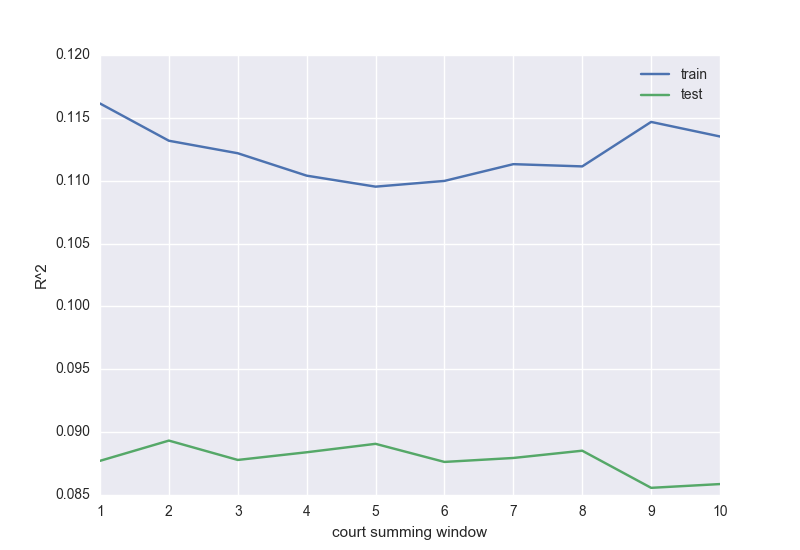
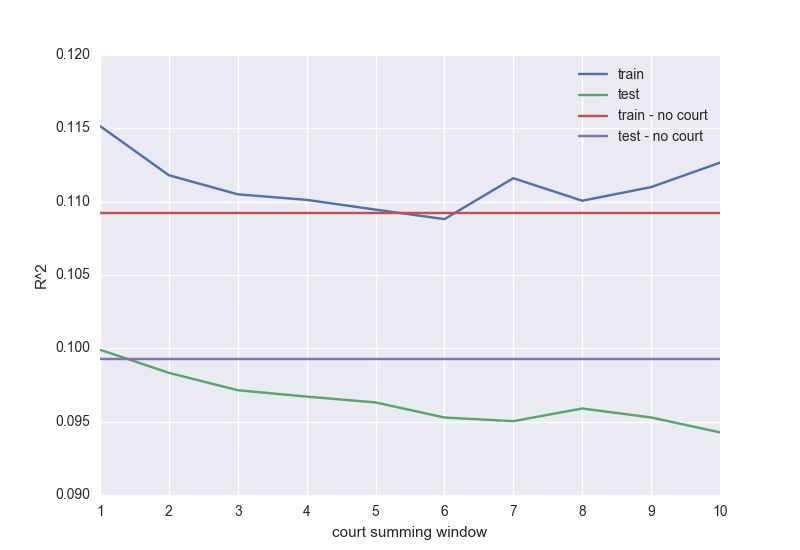
add lines to summing window plots for no court
shows how un-useful the court data is as we are currently modeling it
:/

diff --git a/compare_summing_windows.py b/compare_summing_windows.py
@@ -15,6 +15,8 @@ gss = processing.preprocess_gss()
 # gss = processing.preprocess_gss(composite=None, extra_imports=['affrmact'])
 
 
+train_nocourt_R2 = 0.0
+test_nocourt_R2 = 0.0
 train_R2 = np.array([0.0] * 10)
 test_R2 = np.array([0.0] * 10)
 windows = range(1, 11)
@@ -29,13 +31,21 @@ for l in range(n_reps):
         model = modeling.fit_model(train, test, y_col, x_cols, x_cols_nocourt, print_fit=False)
         train_R2[i-1] = train_R2[i-1] + model[0].score(train[:, x_cols], train[:, y_col])
         test_R2[i-1] = test_R2[i-1] + model[0].score(test[:, x_cols], test[:, y_col])
+        if i == 1:
+            train_nocourt_R2 = train_nocourt_R2 + model[1].score(train[:, x_cols_nocourt], train[:, y_col])
+            test_nocourt_R2 = test_nocourt_R2 + model[1].score(test[:, x_cols_nocourt], test[:, y_col])
 
 train_R2 = train_R2 / n_reps
 test_R2 = test_R2 / n_reps
+train_nocourt_R2 = train_nocourt_R2 / n_reps
+test_nocourt_R2 = test_nocourt_R2 / n_reps
+
 
 plt.figure()
 plt.plot(windows, train_R2, label="train")
 plt.plot(windows, test_R2, label="test")
+plt.plot([windows[0], windows[-1]], [train_nocourt_R2, train_nocourt_R2], label="train - no court")
+plt.plot([windows[0], windows[-1]], [test_nocourt_R2, test_nocourt_R2], label="test - no court")
 plt.legend()
 plt.xlabel("court summing window")
 plt.ylabel("R^2")
